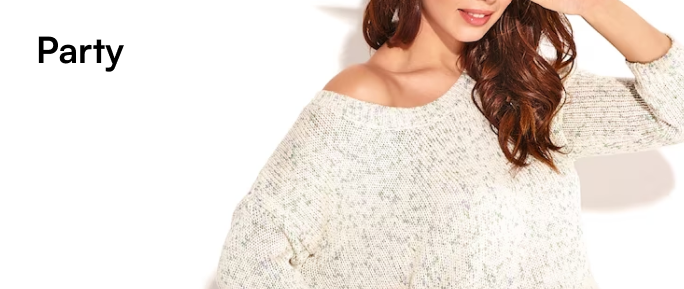
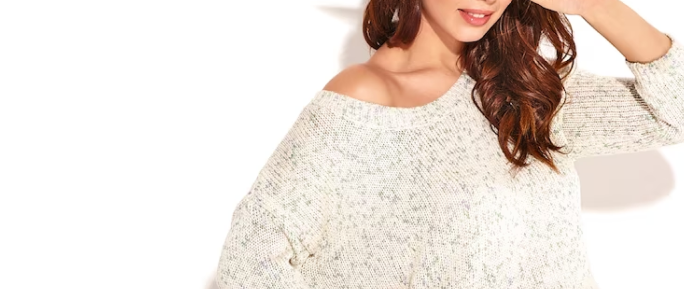
Dress section complete

Changed region(s): [[0.0307, 0.1246, 0.1842, 0.2491]]

diff --git a/src/components/LandingSection/BrowseDressSection.tsx b/src/components/LandingSection/BrowseDressSection.tsx
@@ -2,25 +2,46 @@ import Image from 'next/image'
 import React from 'react'
 import CasualImage from '../../../public/images/Casual-banner.png'
 import FormalImage from '../../../public/images/Formal.png'
+import PartyImage from '../../../public/images/Party.png'
+import GYMImage from '../../../public/images/Gym.png'
 
 const BrowseDressSection = () => {
   return (
     <section>
-        <main className='max-w-[1380px] m-auto'>
-            <div className='py-5 px-5 w-full flex-between flex-col bg-black/10 rounded-3xl'>
-            <div className='flex-[1] w-full flex-center py-10 '>
+        <main className='max-w-[1160px] m-auto'>
+            <div className='py-10 px-5 w-full flex-between flex-col bg-black/10 rounded-3xl gap-5'>
+            <div className='flex-[1] w-full flex-center py-5'>
                 <h1 className='text-2xl md:text-3xl lg:text-5xl font-IntegralCF font-extrabold'>BROWSE BY DRESS STYLE</h1>
             </div>
-            <div className='flex-[1] w-full flex-center'>
-                <div className='flex-[1] w-full flex-between gap-5'>
-                    <div className='flex-[1] flex-center'>
+            <div className='flex-[1] w-full flex-between flex-col gap-5'>
+                <div className='flex-[1] flex-between gap-5'>
+                    <div className='flex-[1] flex-center relative'>
                         <Image src={CasualImage} alt='' className='w-full object-cover' />
+                        <div className='h-full w-full absolute flex px-5 py-5 items-start justify-start'>
+                            <h1 className='text-3xl font-Satoshi font-bold'>Casual</h1>
+                        </div>
                     </div>
-                    <div className='flex-[2.5] flex-center'>
-                    <Image src={FormalImage} alt='' className='w-full object-cover' />
+                    <div className='flex-[1.7] flex-center relative'>
+                        <Image src={FormalImage} alt='' className='w-full object-cover' />
+                        <div className='h-full w-full absolute flex px-5 py-5 items-start justify-start'>
+                            <h1 className='text-3xl font-Satoshi font-bold'>Formal</h1>
+                        </div>
                     </div>
                 </div>
-                <div className='flex-[1] flex-between gap-5'></div>
+                <div className='flex-[1] flex-between gap-5'>
+                    <div className='flex-[1.7] flex-center relative'>
+                        <Image src={PartyImage} alt='' className='w-full object-cover' />
+                        <div className='h-full w-full absolute flex px-5 py-5 items-start justify-start'>
+                            <h1 className='text-3xl font-Satoshi font-bold'>Party</h1>
+                        </div>
+                    </div>
+                    <div className='flex-[1] flex-center relative'>
+                        <Image src={GYMImage} alt='' className='w-full object-cover' />
+                        <div className='h-full w-full absolute flex px-5 py-5 items-start justify-start'>
+                            <h1 className='text-3xl font-Satoshi font-bold'>Gym</h1>
+                        </div>
+                    </div>
+                </div>
             </div>
             </div>
         </main>

diff --git a/src/app/page.tsx b/src/app/page.tsx
@@ -15,7 +15,7 @@ export default function Home() {
       <CompaniesSection />
       <NewArrivalsSection />
       <TopSellerSection />
-      {/* <BrowseDressSection /> */}
+      <BrowseDressSection />
     </>
   );
 }
